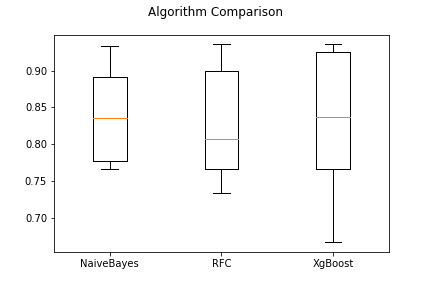
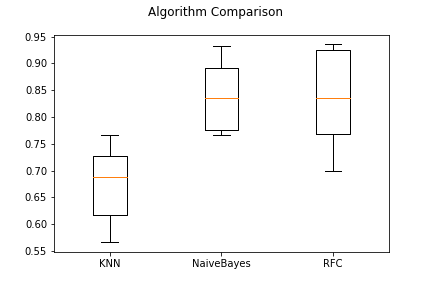
updated

diff --git a/templates/index.html b/templates/index.html
@@ -29,7 +29,7 @@
         	{% if flag=='nb' %}
             	<h2 class='input-heading'>Please enter values ( Naive Bayes ) </h1>
          	    <form action="{{ url_for('predict') }}"  method="POST">
-             	    <input type="hidden" name= "predictflag" value="rfc">
+             	    <input type="hidden" name= "predictflag" value="nb">
                     <input class="form-input" type="text" name="age" placeholder="Age of the individual (years) eg. 30"><br>
                     <input class="form-input" type="text" name="sex" placeholder="Gender 0 or 1 eg. 1 = male 0 = female"><br>
                     <input class="form-input" type="text" name="cp" placeholder="Chest-pain type eg. 1 = typical angina, 2 = atypical angina, 3 = non — anginal pain, 4 = asymptotic"><br>
@@ -66,10 +66,10 @@
             		<input type="submit" class="my-cta-button" value="Predict"> <br/><br/><br/>
             	</form>
             	
-             {% elif flag=='xgb' %}
-            	<h2 class='input-heading'>Please enter values ( XgBoost ) </h1>
+             {% elif flag=='knn' %}
+            	<h2 class='input-heading'>Please enter values ( K-NN ) </h1>
          	   	<form action="{{ url_for('predict') }}" method="POST">
-             	    <input type="hidden" name= "predictflag" value="rfc">
+             	    <input type="hidden" name= "predictflag" value="knn">
                     <input class="form-input" type="text" name="age" placeholder="Age of the individual (years) eg. 30"><br>
                     <input class="form-input" type="text" name="sex" placeholder="Gender 0 or 1 eg. 1 = male 0 = female"><br>
                     <input class="form-input" type="text" name="cp" placeholder="Chest-pain type eg. 1 = typical angina, 2 = atypical angina, 3 = non — anginal pain, 4 = asymptotic"><br>

diff --git a/templates/result.html b/templates/result.html
@@ -47,12 +47,12 @@
 				<img class="gif1" width="300" height="300" src="{{ url_for('static', filename='snoopy_happy.gif') }}" alt="Not Diabetes Image">
 			{% endif %}
 			
-        {% elif flagpred == 'xgb' %}
+        {% elif flagpred == 'knn' %}
             {% if prediction==1  %}
-				<h1>Prediction - XgB: <span class='danger'>Sorry! You have HIGH chances of Heart Attack.</span></h1>
+				<h1>Prediction - KNN: <span class='danger'>Sorry! You have HIGH chances of Heart Attack.</span></h1>
 				<img class="gif" width="300" height="300" src="{{ url_for('static', filename='snoopy_sad.gif') }}" alt="Diabetes Image">
 			{% elif prediction==0 %}
-				<h1>Prediction - XgB: <span class='safe'>Great! You have LOW chances of Heart Attack.</span></h1>
+				<h1>Prediction - KNN: <span class='safe'>Great! You have LOW chances of Heart Attack.</span></h1>
 				<img class="gif1" width="300" height="300" src="{{ url_for('static', filename='snoopy_happy.gif') }}" alt="Not Diabetes Image">
 			{% endif %}
 			

diff --git a/templates/home.html b/templates/home.html
@@ -33,7 +33,7 @@
         		<button class="button button3">Prediction using Random Forest Algo</button> <br/><br/><br/>
            	</form>
            	<form action="{{ url_for('xgboostclassification') }}" method="POST">
-        		<button class="button button4">Prediction using XgBoost Algo</button> <br/><br/><br/>
+        		<button class="button button4">Prediction using K-NN Algo</button> <br/><br/><br/>
            	</form>
     	</div>
 

diff --git a/compare_algo.py b/compare_algo.py
@@ -6,7 +6,7 @@ import matplotlib.pyplot as plt
 from sklearn import model_selection
 from sklearn.naive_bayes import GaussianNB
 from sklearn.ensemble import RandomForestClassifier
-from xgboost import XGBClassifier
+from sklearn.neighbors import KNeighborsClassifier
 
 from sklearn.svm import SVC
 
@@ -35,9 +35,11 @@ y = dataset.iloc[:, -1].values
 seed = 7
 # prepare models
 models = []
+
+models.append(('KNN', KNeighborsClassifier()))
 models.append(('NaiveBayes', GaussianNB()))
 models.append(('RFC', RandomForestClassifier()))
-models.append(('XgBoost', XGBClassifier()))
+
 
 # evaluate each model in turn
 results = []
@@ -50,6 +52,7 @@ for name, model in models:
 	names.append(name)
 	msg = "%s: %f (%f)" % (name, cv_results.mean(), cv_results.std())
 	print(msg)
+    
 # boxplot algorithm comparison
 fig = plt.figure()
 fig.suptitle('Algorithm Comparison')

diff --git a/KNN_Classification.py b/KNN_Classification.py
@@ -27,9 +27,9 @@ y = dataset.iloc[:, -1].values
 from sklearn.model_selection import train_test_split
 X_train, X_test, y_train, y_test = train_test_split(X, y, test_size = 0.2, random_state = 0)
 
-# Training XGBoost on the Training set
-from xgboost import XGBClassifier
-classifier = XGBClassifier()
+# Training the K-NN model on the Training set
+from sklearn.neighbors import KNeighborsClassifier
+classifier = KNeighborsClassifier(n_neighbors = 5, metric = 'minkowski', p = 2)
 classifier.fit(X_train, y_train)
 
 
@@ -42,5 +42,5 @@ acs = accuracy_score(y_test, y_pred)
 print(acs)
 
 # Creating a pickle file for the NB classifier
-filename = 'XgBoost-model.pkl'
+filename = 'KNN-model.pkl'
 pickle.dump(classifier, open(filename, 'wb'))
